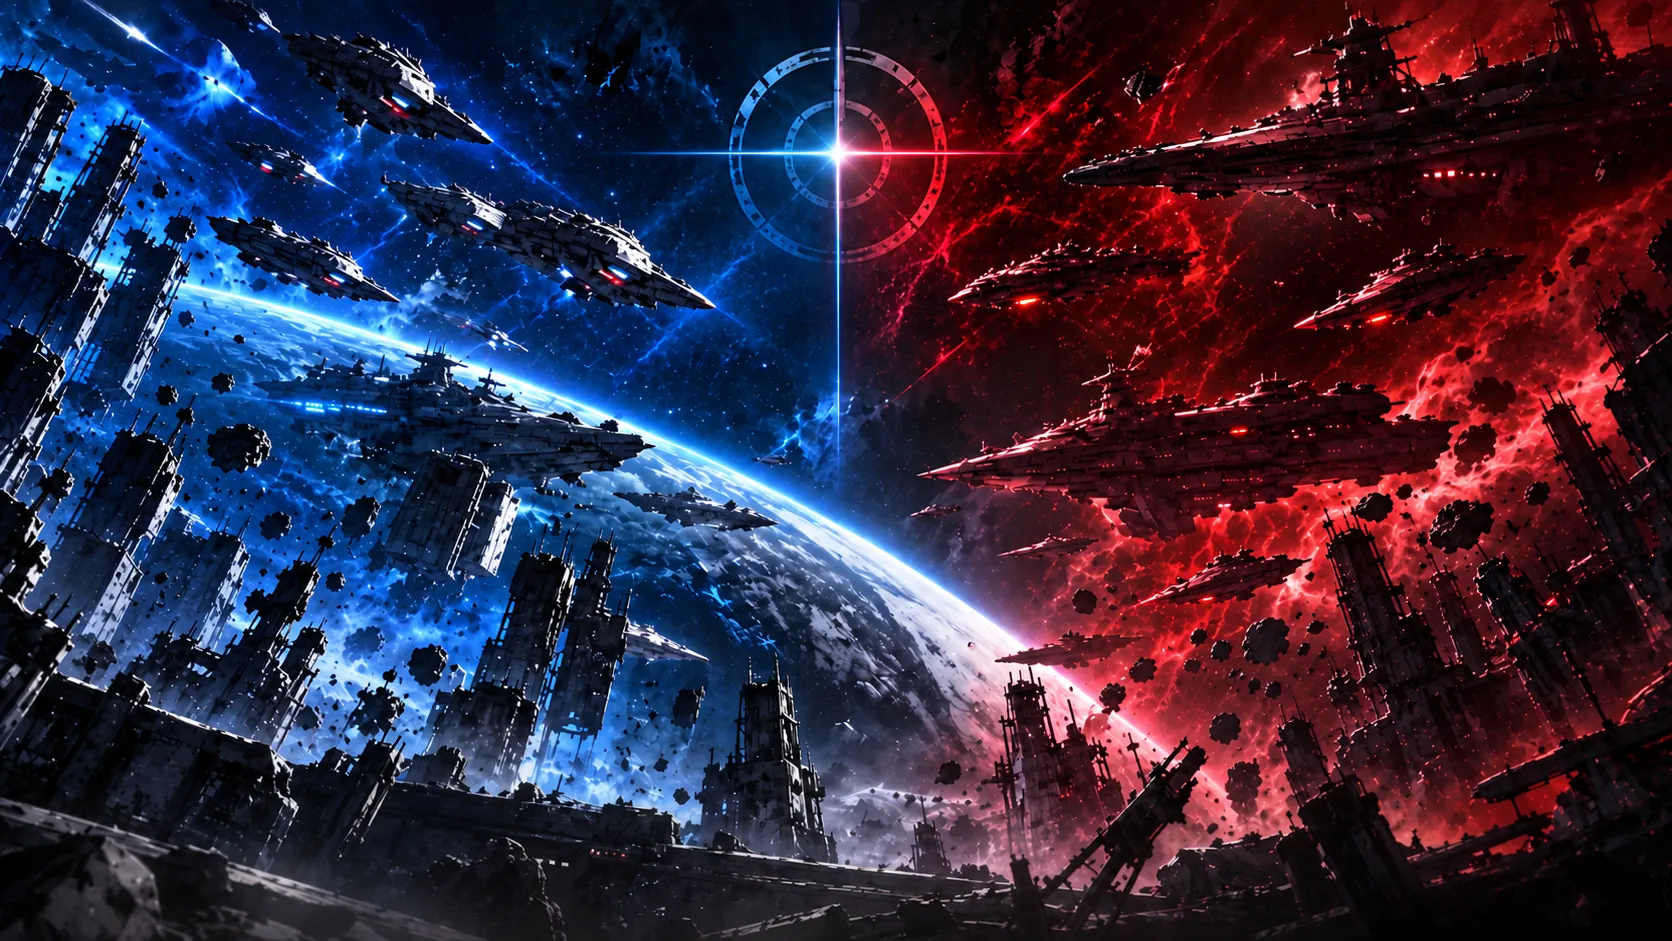
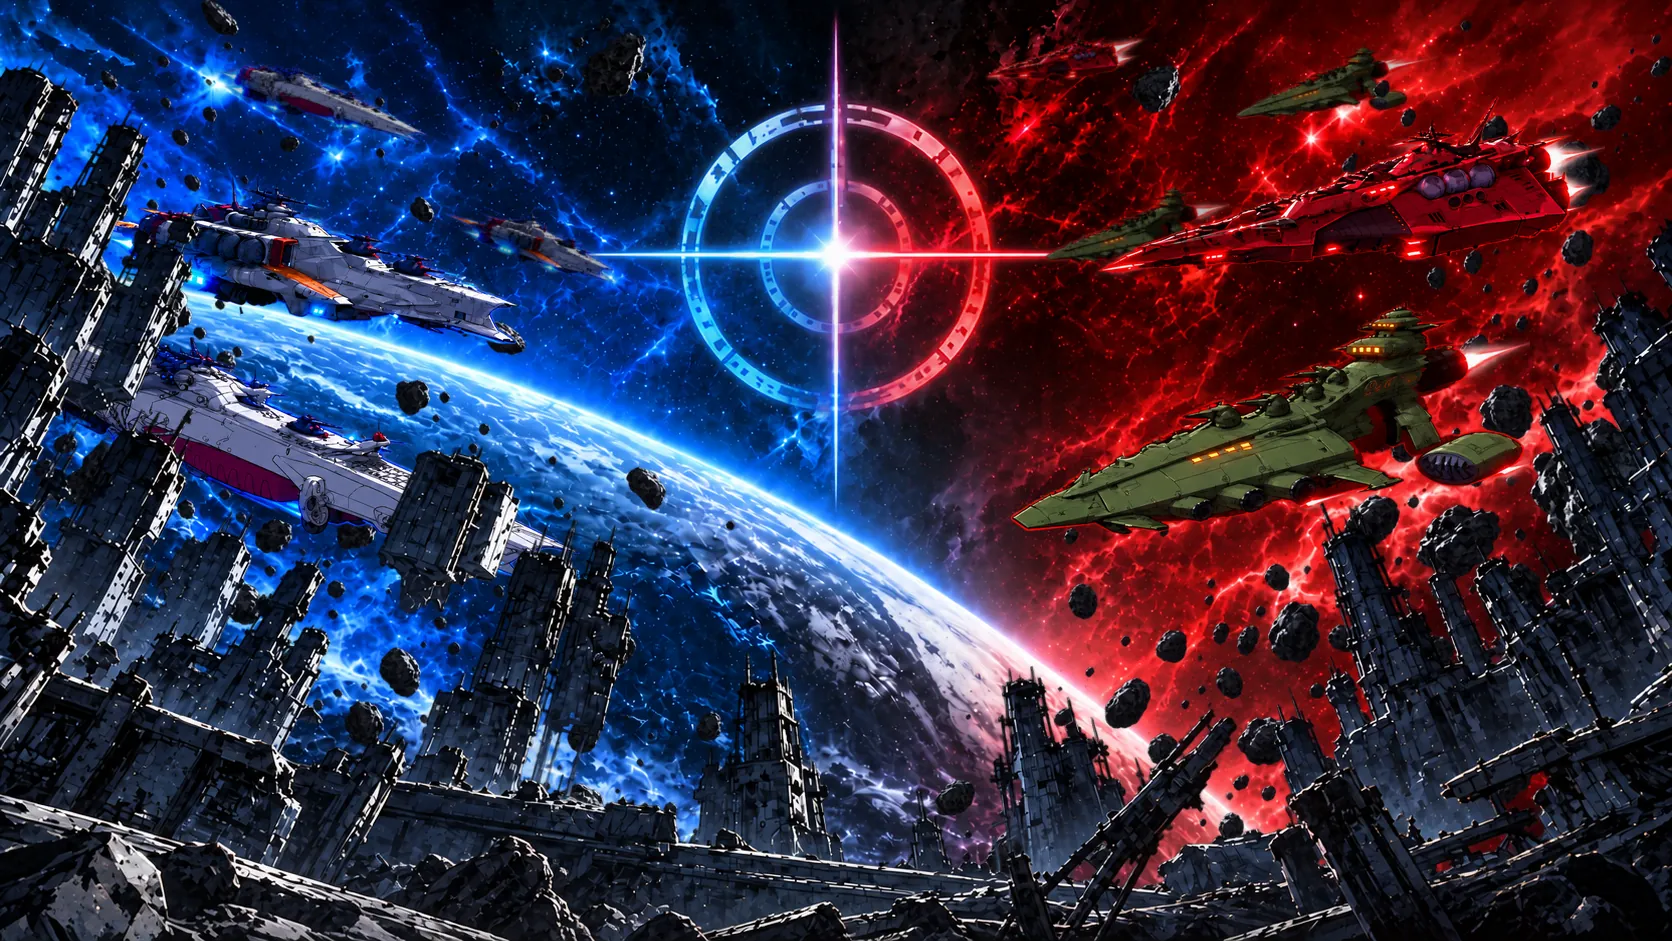
new ships menu

diff --git a/public/index.html b/public/index.html
@@ -2589,8 +2589,12 @@ body.spa .ffside.foe{background:linear-gradient(270deg,rgba(56,189,248,.14),tran
 .m3-l.emb,.m3-l.embGlow{background-image:url(img/m3-emblem.webp)}
 .m3-l.embGlow{opacity:0;filter:blur(.5vmax) brightness(1.8);animation:m3GlowOp 4.5s ease-in-out infinite}
 @keyframes m3GlowOp{0%,100%{opacity:0}50%{opacity:.75}}
-.m3-l.shipsL{background-image:url(img/m3-ships-l.webp);animation:m3AdvL 17s ease-in-out infinite alternate}
-.m3-l.shipsR{background-image:url(img/m3-ships-r.webp);animation:m3AdvR 19s ease-in-out infinite alternate}
+.m3-l.farFed{background-image:url(img/m4-far-fed.webp);animation:m3AdvL 23s ease-in-out infinite alternate}
+.m3-l.farZeon{background-image:url(img/m4-far-zeon.webp);animation:m3AdvR 25s ease-in-out infinite alternate}
+.m3-l.nearFed{background-image:url(img/m4-near-fed.webp);animation:m3AdvL2 16s ease-in-out infinite alternate}
+.m3-l.nearZeon{background-image:url(img/m4-near-zeon.webp);animation:m3AdvR2 18s ease-in-out infinite alternate}
+@keyframes m3AdvL2{0%{transform:translate(-2vw,.6vh)}100%{transform:translate(1.8vw,-.8vh)}}
+@keyframes m3AdvR2{0%{transform:translate(2vw,-.5vh)}100%{transform:translate(-1.8vw,.8vh)}}
 .m3-l.rocks{background-image:url(img/m3-rocks.webp);animation:m3Float 26s ease-in-out infinite alternate}
 .m3-l.fg{background-image:url(img/m3-fg.webp)}
 @keyframes m3Breath{0%{transform:scale(1)}100%{transform:scale(1.06)}}
@@ -2630,11 +2634,14 @@ body.spa .ffside.foe{background:linear-gradient(270deg,rgba(56,189,248,.14),tran
 #s0.m3zoom #m3 .emb{animation:m3zEmb .75s cubic-bezier(.75,0,1,.55) forwards}
 #s0.m3zoom #m3 [data-d="fg"]{animation:m3zFg .75s cubic-bezier(.75,0,1,.55) forwards}
 #s0.m3zoom #m3 [data-d="rocks"]{animation:m3Float 26s ease-in-out infinite alternate,m3zRocks .75s cubic-bezier(.75,0,1,.55) forwards}
-#s0.m3zoom #m3 [data-d="shipsL"]{animation:m3AdvL 17s ease-in-out infinite alternate,m3zShips .75s cubic-bezier(.75,0,1,.55) forwards}
-#s0.m3zoom #m3 [data-d="shipsR"]{animation:m3AdvR 19s ease-in-out infinite alternate,m3zShips .75s cubic-bezier(.75,0,1,.55) forwards}
+#s0.m3zoom #m3 .farFed{animation:m3AdvL 23s ease-in-out infinite alternate,m3zFar .75s cubic-bezier(.75,0,1,.55) forwards}
+#s0.m3zoom #m3 .farZeon{animation:m3AdvR 25s ease-in-out infinite alternate,m3zFar .75s cubic-bezier(.75,0,1,.55) forwards}
+#s0.m3zoom #m3 .nearFed{animation:m3AdvL2 16s ease-in-out infinite alternate,m3zShips .75s cubic-bezier(.75,0,1,.55) forwards}
+#s0.m3zoom #m3 .nearZeon{animation:m3AdvR2 18s ease-in-out infinite alternate,m3zShips .75s cubic-bezier(.75,0,1,.55) forwards}
+@keyframes m3zFar{0%{scale:1}100%{scale:1.35}}
 @keyframes m3zBase{0%{scale:1}100%{scale:1.25}}
 @keyframes m3zEmb{0%{scale:1}100%{scale:1.5}}
-@keyframes m3zShips{0%{scale:1}100%{scale:1.6}}
+@keyframes m3zShips{0%{scale:1}100%{scale:1.8}}
 @keyframes m3zRocks{0%{scale:1}100%{scale:2.2}}
 @keyframes m3zFg{0%{scale:1}100%{scale:3}}
 
@@ -2804,8 +2811,9 @@ body.spa .ffside.foe{background:linear-gradient(270deg,rgba(56,189,248,.14),tran
   <div class="m-bg m3" id="m3">
     <div class="m3-l base" data-d="base"></div><div class="m3-stars" data-d="stars"></div>
     <div class="m3-l emb" data-d="emb"></div><div class="m3-l embGlow" data-d="emb"></div>
-    <div class="m3-l shipsL" data-d="shipsL"></div><div class="m3-l shipsR" data-d="shipsR"></div>
+    <div class="m3-l farFed" data-d="far"></div><div class="m3-l farZeon" data-d="far"></div>
     <div class="m3-fx" data-d="fx"></div>
+    <div class="m3-l nearFed" data-d="near"></div><div class="m3-l nearZeon" data-d="near"></div>
     <div class="m3-l rocks" data-d="rocks"></div>
     <div class="m3-l fg" data-d="fg"></div>
     <div class="m3-embers" data-d="embers"></div>
@@ -2858,8 +2866,9 @@ body.spa .ffside.foe{background:linear-gradient(270deg,rgba(56,189,248,.14),tran
   <div class="m-bg m3" id="m3b">
     <div class="m3-l base" data-d="base"></div><div class="m3-stars" data-d="stars"></div>
     <div class="m3-l emb" data-d="emb"></div><div class="m3-l embGlow" data-d="emb"></div>
-    <div class="m3-l shipsL" data-d="shipsL"></div><div class="m3-l shipsR" data-d="shipsR"></div>
+    <div class="m3-l farFed" data-d="far"></div><div class="m3-l farZeon" data-d="far"></div>
     <div class="m3-fx" data-d="fx"></div>
+    <div class="m3-l nearFed" data-d="near"></div><div class="m3-l nearZeon" data-d="near"></div>
     <div class="m3-l rocks" data-d="rocks"></div>
     <div class="m3-l fg" data-d="fg"></div>
     <div class="m3-embers" data-d="embers"></div>
@@ -10204,7 +10213,7 @@ function playClash(after) {
 
 // ================= LANDING SCENE: layered parallax (cf54) =================
 // Layers back → front, each with a depth (how far it moves, in % of the screen).
-const M3_DEPTH = { base: 0.7, stars: 0.9, emb: 1.3, shipsL: 2.6, shipsR: 2.6, rocks: 4.2, fx: 3, fg: 6.4, embers: 7.2 };
+const M3_DEPTH = { base: 0.7, stars: 0.9, emb: 1.3, far: 2.0, fx: 2.6, near: 3.4, rocks: 4.2, fg: 6.4, embers: 7.2 };
 const M3 = { x: 0, y: 0, tx: 0, ty: 0, raf: 0, drag: null, gyro: null, gyroBase: null, asked: false, boomT: 0 };
 function m3Root() {                                     // the scene on the menu screen that is showing (landing or offline menu)
   if (document.hidden) return null;
@@ -14166,7 +14175,7 @@ function fitSheet() {
 }
 window.addEventListener("resize", () => requestAnimationFrame(fitSheet));
 window.addEventListener("orientationchange", () => setTimeout(fitSheet, 150));
-const APP_BUILD = "cf58";
+const APP_BUILD = "cf59";
 if ($("buildTag")) $("buildTag").textContent = APP_BUILD;
 if ($("buildTag0")) $("buildTag0").textContent = APP_BUILD;
 

diff --git a/public/sw.js b/public/sw.js
@@ -1,7 +1,7 @@
-const C="gbcf-cf58";
+const C="gbcf-cf59";
 const FILES=["./","index.html","manifest.json",
  "img/mech-gundam.webp","img/ship-musai.webp","img/portraits/ship-musai.webp","img/portraits/ship-salamis.webp","img/portraits/ship-rewloola.webp","img/portraits/ship-racailum.webp","img/ship-salamis.webp","img/ship-rewloola.webp","img/ship-racailum.webp","img/mech-sazabi.webp","img/mech-zaku.webp","img/mech-gm.webp",
- "img/menu-bg.webp","img/lobby-bg.webp","img/menu2-bg.webp","img/m3-base.webp","img/m3-emblem.webp","img/m3-ships-l.webp","img/m3-ships-r.webp","img/m3-rocks.webp","img/m3-fg.webp","img/menu2-gundam.webp","img/menu2-zaku.webp","img/menu2-clash.webp","img/menu2-logo.webp","img/ground/fed-armor.webp","img/ground/fed-car.webp","img/ground/fed-heli.webp","img/ground/fed-jet.webp","img/ground/fed-mg.webp","img/ground/fed-recon.webp","img/ground/fed-rifleman.webp","img/ground/fed-shield.webp","img/ground/fed-sniper.webp","img/ground/fed-tank.webp","img/ground/fed-transport.webp","img/ground/spa-armor.webp","img/ground/spa-car.webp","img/ground/spa-heli.webp","img/ground/spa-jet.webp","img/ground/spa-mg.webp","img/ground/spa-recon.webp","img/ground/spa-rifleman.webp","img/ground/spa-shield.webp","img/ground/spa-sniper.webp","img/ground/spa-tank.webp","img/ground/spa-transport.webp","img/ground/wire-fed-car.webp","img/ground/wire-fed-heli.webp","img/ground/wire-fed-jet.webp","img/ground/wire-fed-tank.webp","img/ground/wire-fed-transport.webp","img/ground/wire-spa-car.webp","img/ground/wire-spa-heli.webp","img/ground/wire-spa-jet.webp","img/ground/wire-spa-tank.webp","img/ground/wire-spa-transport.webp","img/menu-fed.webp","img/menu-spa.webp","img/bg-fed.webp","img/bg-spa.webp",
+ "img/menu-bg.webp","img/lobby-bg.webp","img/menu2-bg.webp","img/m3-base.webp","img/m3-emblem.webp","img/m4-far-fed.webp","img/m4-far-zeon.webp","img/m4-near-fed.webp","img/m4-near-zeon.webp","img/m3-rocks.webp","img/m3-fg.webp","img/menu2-gundam.webp","img/menu2-zaku.webp","img/menu2-clash.webp","img/menu2-logo.webp","img/ground/fed-armor.webp","img/ground/fed-car.webp","img/ground/fed-heli.webp","img/ground/fed-jet.webp","img/ground/fed-mg.webp","img/ground/fed-recon.webp","img/ground/fed-rifleman.webp","img/ground/fed-shield.webp","img/ground/fed-sniper.webp","img/ground/fed-tank.webp","img/ground/fed-transport.webp","img/ground/spa-armor.webp","img/ground/spa-car.webp","img/ground/spa-heli.webp","img/ground/spa-jet.webp","img/ground/spa-mg.webp","img/ground/spa-recon.webp","img/ground/spa-rifleman.webp","img/ground/spa-shield.webp","img/ground/spa-sniper.webp","img/ground/spa-tank.webp","img/ground/spa-transport.webp","img/ground/wire-fed-car.webp","img/ground/wire-fed-heli.webp","img/ground/wire-fed-jet.webp","img/ground/wire-fed-tank.webp","img/ground/wire-fed-transport.webp","img/ground/wire-spa-car.webp","img/ground/wire-spa-heli.webp","img/ground/wire-spa-jet.webp","img/ground/wire-spa-tank.webp","img/ground/wire-spa-transport.webp","img/menu-fed.webp","img/menu-spa.webp","img/bg-fed.webp","img/bg-spa.webp",
  "img/portraits/ac-nightfall.webp","img/portraits/astray-red-frame.webp","img/portraits/banshee-norn.webp","img/portraits/blue-destiny.webp","img/portraits/delta-zayin.webp","img/portraits/destiny.webp","img/portraits/epyon.webp","img/portraits/exia.webp","img/portraits/f91.webp","img/portraits/geara-zulu.webp","img/portraits/gm-sniper-ii.webp","img/portraits/gm.webp","img/portraits/gouf.webp","img/portraits/gp01fb.webp","img/portraits/gp02a.webp","img/portraits/gundam-ex.webp","img/portraits/gundam-mk-ii.webp","img/portraits/gundam-pixy.webp","img/portraits/hyaku-shiki.webp","img/portraits/infinite-justice.webp","img/portraits/jesta.webp","img/portraits/jiyan-altron.webp","img/portraits/kshatriya.webp","img/portraits/legend.webp","img/portraits/luminous-crystal-body.webp","img/portraits/master-gundam.webp","img/portraits/narrative.webp","img/portraits/night-hawk.webp","img/portraits/nightingale.webp","img/portraits/nu-gundam.webp","img/portraits/pale-rider.webp","img/portraits/phenex.webp","img/portraits/rick-dom.webp","img/portraits/rising-freedom.webp","img/portraits/rozen-zulu.webp","img/portraits/rx-78-2.webp","img/portraits/sazabi.webp","img/portraits/sinanju-stein.webp","img/portraits/sinanju-zero.webp","img/portraits/sinanju.webp","img/portraits/slave-wraith.webp","img/portraits/strike-freedom.webp","img/portraits/strike-rouge.webp","img/portraits/turn-a.webp","img/portraits/vidar.webp","img/portraits/wing-zero-custom.webp","img/portraits/wing-zero.webp","img/portraits/xi.webp","img/portraits/zaku-i-sniper.webp","img/portraits/zaku-ii.webp",
  "icons/icon-192.png","icons/icon-512.png","icons/apple-touch-icon.png",
  "icons/icon-maskable-512.png","icons/logo.webp"];

diff --git a/README_CLOUDFLARE.md b/README_CLOUDFLARE.md
@@ -1,4 +1,4 @@
-# Gunpla Battle — Cloudflare version (build cf58)
+# Gunpla Battle — Cloudflare version (build cf59)
 
 This is the full app (solo tracker + team multiplayer). It runs on **Cloudflare Workers**, with a **Durable Object "room" per battle session**.
 
@@ -126,3 +126,4 @@ public/            the app (index.html, images, service worker)
 | cf56 | `src/index.js`, `public/index.html`, `public/sw.js` | Quick Resolve tab rebuilt around the online firefight (the old one-device board is removed): challenge / open card, round guide, margin table. Clash screen: dice are rolled AFTER the item reveal (Smoke clears this roll's set-aside dice; the server rolls then in rolled mode); big 'ROLL N DICE NOW' box with the breakdown and a plain 'you were flashed — physically move N dice away' instruction; NEXT ROUND box (flash + your 1s / margin suppression → dice next round) |
 | cf57 | `src/index.js`, `public/index.html`, `public/sw.js` | Flashbang now removes 3 dice from the enemy's roll THIS round (server rolls accordingly; Smoke still cancels it). Physical dice: '📋 LOST THIS ROUND? PICK THE MARGIN' opens the margin table (incl. enemy Perfect Volley) and applies casualties + set-aside dice; the next-round box counts your 1s + margin. Rolled dice: highlighted margin table with both totals. Reveal cards flip only once |
 | cf58 | `public/index.html`, `public/sw.js` | Firefight screen: flash / smoke / explosion effects play on their own layer (adjusting your 1s can't cut them short or replay them); a redraw during the 3-2-1 countdown keeps the current number |
+| cf59 | `public/index.html`, `public/sw.js`, **new** `public/img/m4-far-fed.webp`, `m4-far-zeon.webp`, `m4-near-fed.webp`, `m4-near-zeon.webp`, **replaced** `public/img/menu2-bg.webp`; **delete** `public/img/m3-ships-l.webp` and `m3-ships-r.webp` | Menu scene uses the designer's new ships: 9 ships cut out and arranged as far and near layers per fleet (Federation left, Zeon right, facing each other around the emblem), each with its own parallax depth and drift; the clash fly-through and the end background use them too |
